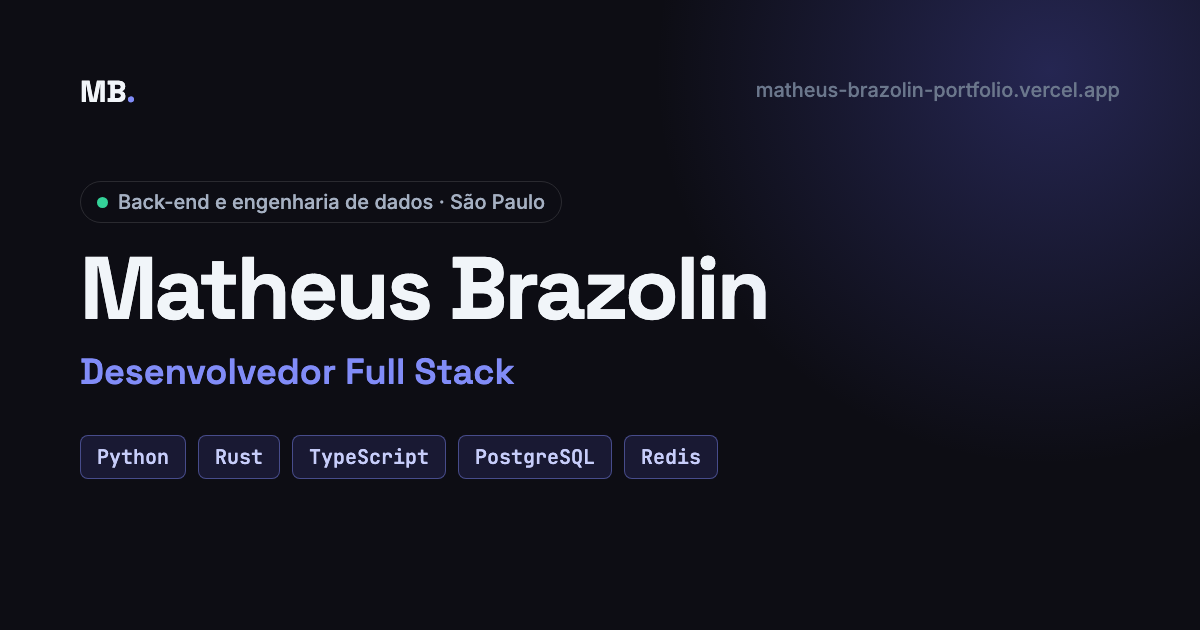
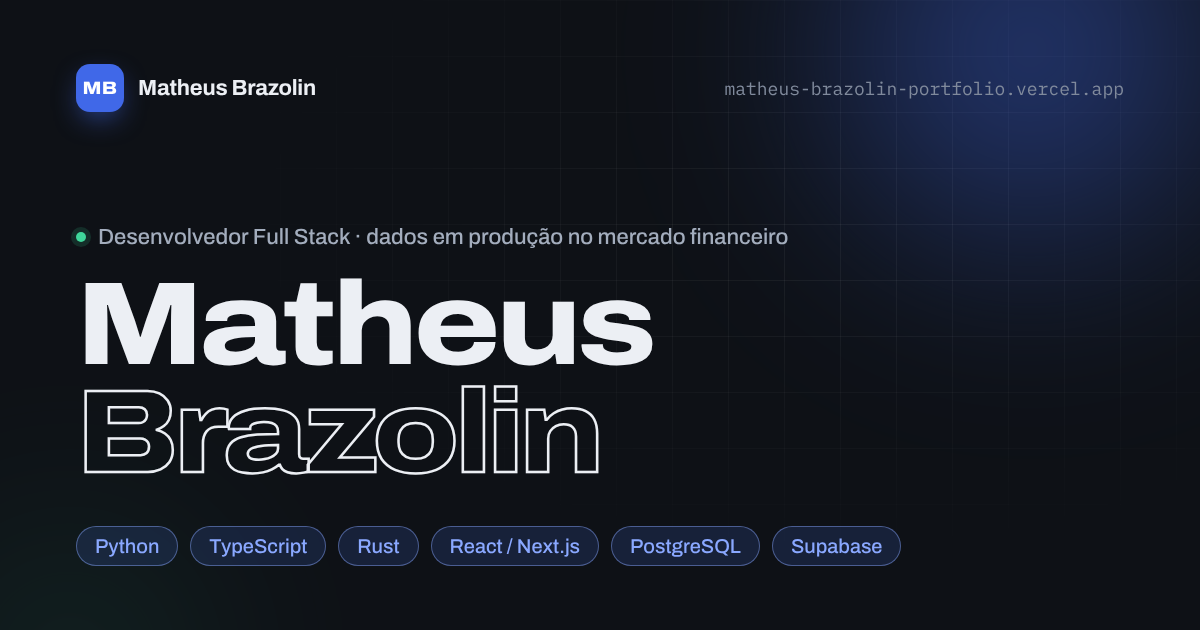
Idiomas em Formação e nova imagem de prévia
- Formação ganha o bloco Idiomas: português nativo e inglês avançado
  (leitura técnica, escrita e conversação), como no currículo.
- og-image.png refeita no visual atual do site (selo MB, nome com o
  sobrenome vazado, grade e as tecnologias em destaque); o endereço leva
  ?v=2 para WhatsApp e LinkedIn não mostrarem a imagem antiga do cache.

diff --git a/index.html b/index.html
@@ -15,7 +15,7 @@
   <meta property="og:url" content="https://matheus-brazolin-portfolio.vercel.app/" />
   <meta property="og:title" content="Matheus Brazolin — Desenvolvedor Full Stack" />
   <meta property="og:description" content="Back-end e engenharia de dados em produção no mercado financeiro. Rust, Python, TypeScript, PostgreSQL e Redis." />
-  <meta property="og:image" content="https://matheus-brazolin-portfolio.vercel.app/og-image.png" />
+  <meta property="og:image" content="https://matheus-brazolin-portfolio.vercel.app/og-image.png?v=2" />
   <meta property="og:image:width" content="1200" />
   <meta property="og:image:height" content="630" />
   <meta property="og:locale" content="pt_BR" />
@@ -24,7 +24,7 @@
   <meta name="twitter:card" content="summary_large_image" />
   <meta name="twitter:title" content="Matheus Brazolin — Desenvolvedor Full Stack" />
   <meta name="twitter:description" content="Back-end e engenharia de dados em produção no mercado financeiro. Rust, Python, TypeScript, PostgreSQL e Redis." />
-  <meta name="twitter:image" content="https://matheus-brazolin-portfolio.vercel.app/og-image.png" />
+  <meta name="twitter:image" content="https://matheus-brazolin-portfolio.vercel.app/og-image.png?v=2" />
 
   <script type="application/ld+json">
   {
@@ -395,6 +395,11 @@
                 <p class="edu-title">Graduação em Análise e Desenvolvimento de Sistemas</p>
                 <p class="edu-meta">Universidade Anhembi Morumbi, 2022 – 2024</p>
               </li>
+            </ul>
+            <h3 class="edu-head edu-head-next">Idiomas</h3>
+            <ul class="edu-list">
+              <li><p class="edu-title">Português</p><p class="edu-meta">Nativo</p></li>
+              <li><p class="edu-title">Inglês</p><p class="edu-meta">Avançado: leitura técnica, escrita e conversação</p></li>
             </ul>
           </div>
           <div class="edu-col reveal">

diff --git a/style.css b/style.css
@@ -775,6 +775,7 @@ code {
 ============================================== */
 .edu-grid { display: grid; grid-template-columns: 1fr 1fr; gap: clamp(1.5rem, 4vw, 3rem); }
 .edu-head { font-size: 0.9rem; font-weight: 600; color: var(--text-3); margin-bottom: 0.6rem; }
+.edu-head-next { margin-top: 2.2rem; }
 .edu-list li { padding: 1.1rem 0; border-bottom: 1px solid var(--border); }
 .edu-list li:first-child { border-top: 1px solid var(--border); }
 .edu-title { font-weight: 600; font-size: 1.05rem; letter-spacing: -0.01em; }
